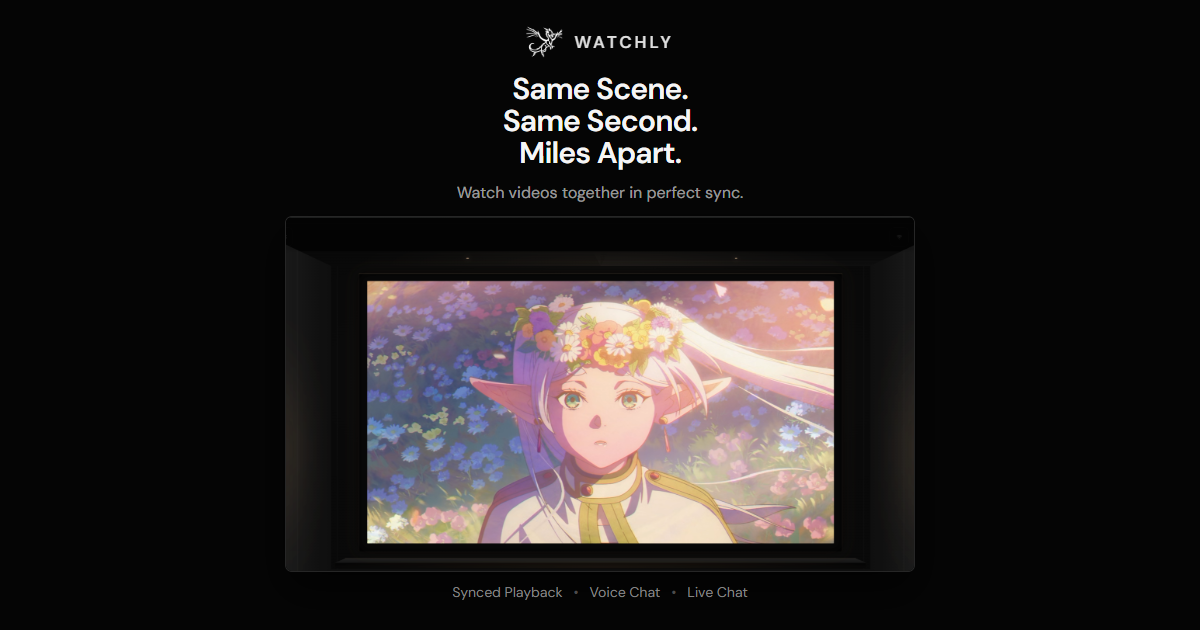
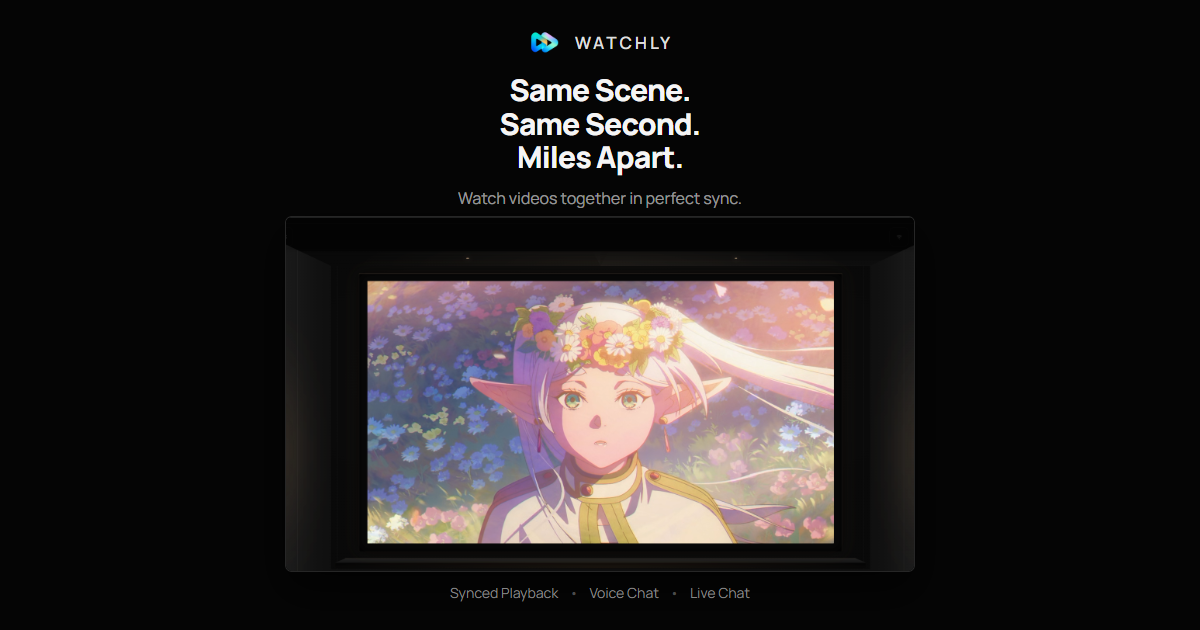
changed font to Manrope

diff --git a/frontend/src/components/cinema-hero.css b/frontend/src/components/cinema-hero.css
@@ -13,7 +13,7 @@
 
 .watchly-landing button,
 .watchly-landing input {
-  font: inherit;
+  font-family: inherit;
 }
 
 .watchly-landing button:focus-visible,
@@ -71,7 +71,7 @@
   align-items: center;
   gap: 10px;
   background: transparent;
-  font-weight: 750;
+  font-weight: 600;
   letter-spacing: -0.02em;
 }
 
@@ -99,7 +99,7 @@
   background: transparent;
   color: rgb(255 255 255 / 62%);
   font-size: 0.78rem;
-  font-weight: 650;
+  font-weight: 600;
   transition: color 180ms ease, background 180ms ease;
 }
 
@@ -122,7 +122,7 @@
   border-radius: 14px;
   color: var(--watchly-ink) !important;
   font-size: 0.8rem;
-  font-weight: 750;
+  font-weight: 600;
   box-shadow: 0 8px 28px rgb(0 0 0 / 20%);
   transition: background 180ms ease, transform 180ms ease;
 }
@@ -277,18 +277,17 @@
   margin: 0;
   color: rgb(255 255 255 / 64%);
   font-size: 0.68rem;
-  font-weight: 800;
+  font-weight: 400;
   letter-spacing: 0.18em;
 }
 
 .cinema-hero-copy h1 {
   max-width: 540px;
   margin: 13px 0 0;
-  font-family: 'Syne', sans-serif;
   font-size: clamp(2.35rem, 4.35vw, 4.9rem);
-  font-weight: 650;
-  line-height: 0.94;
-  letter-spacing: -0.055em;
+  font-weight: 800;
+  line-height: 1.08;
+  letter-spacing: -0.04em;
 }
 
 .cinema-hero-copy h1 span {
@@ -326,7 +325,7 @@
   border-radius: 14px;
   cursor: pointer;
   font-size: 0.83rem;
-  font-weight: 750;
+  font-weight: 600;
   transition: transform 180ms ease, background 180ms ease, border-color 180ms ease;
 }
 
@@ -510,11 +509,10 @@
 .story-panel h2 {
   margin: 18px 0 0;
   max-width: 670px;
-  font-family: 'Syne', sans-serif;
   font-size: clamp(2.15rem, 4.3vw, 4.75rem);
-  font-weight: 620;
-  line-height: 1;
-  letter-spacing: -0.055em;
+  font-weight: 650;
+  line-height: 1.12;
+  letter-spacing: -0.035em;
 }
 
 .story-panel-description {
@@ -647,12 +645,16 @@
 
 .story-panel-metric span {
   color: rgb(255 255 255 / 35%);
-  font: 700 0.68rem/1 'DM Sans', sans-serif;
+  font-size: 0.68rem;
+  font-weight: 400;
+  line-height: 1.4;
   letter-spacing: 0.15em;
 }
 
 .story-panel-metric strong {
-  font: 650 0.85rem/1.3 'DM Sans', sans-serif;
+  font-size: 0.85rem;
+  font-weight: 650;
+  line-height: 1.4;
 }
 
 .stage-indicator {
@@ -772,10 +774,10 @@
 
 .room-launcher h2 {
   margin: 13px 40px 0 0;
-  font-family: 'Syne', sans-serif;
   font-size: clamp(2rem, 6vw, 2.8rem);
-  line-height: 1;
-  letter-spacing: -0.045em;
+  font-weight: 650;
+  line-height: 1.2;
+  letter-spacing: -0.025em;
 }
 
 .room-launcher-copy {
@@ -813,7 +815,7 @@
   gap: 8px;
   color: rgb(255 255 255 / 52%);
   font-size: 0.68rem;
-  font-weight: 750;
+  font-weight: 600;
   letter-spacing: 0.06em;
   text-transform: uppercase;
 }
@@ -870,7 +872,7 @@
   border-radius: 14px;
   cursor: pointer;
   font-size: 0.84rem;
-  font-weight: 800;
+  font-weight: 600;
 }
 
 .room-launcher-submit:disabled {
@@ -1031,7 +1033,7 @@
   .cinema-hero-copy h1 {
     margin-top: 9px;
     font-size: clamp(2rem, 10vw, 2.75rem);
-    line-height: 0.96;
+    line-height: 1.08;
   }
 
   .cinema-hero-copy > p:not(.cinema-kicker) {

diff --git a/frontend/src/components/livekit-voice.css b/frontend/src/components/livekit-voice.css
@@ -1,15 +1,15 @@
 .livekit-voice { border: 1px solid var(--glass-border); border-radius: 24px; background: var(--glass-bg); color: var(--text); padding: 12px; backdrop-filter: blur(var(--blur)); }
-.livekit-voice button { font: inherit; cursor: pointer; }
+.livekit-voice button { font-family: inherit; cursor: pointer; }
 .livekit-voice button:disabled { opacity: .45; cursor: default; }
 .livekit-voice :focus-visible { outline: 2px solid var(--text); outline-offset: 3px; }
 .livekit-voice-title { display: flex; align-items: center; gap: 10px; width: 100%; min-height: 48px; background: none; border: 0; color: inherit; text-align: left; padding: 4px; }
 .livekit-voice-title > span:nth-child(2) { flex: 1; min-width: 0; }
-.livekit-voice-title strong { font-size: 14px; font-family: 'Syne', sans-serif; }
+.livekit-voice-title strong { font-size: 14px; font-weight: 650; }
 .livekit-voice-icon { display: inline-flex; align-items: center; justify-content: center; flex-shrink: 0; width: 40px; height: 40px; border-radius: 14px; background: var(--accent-soft); }
 .livekit-voice-status { display: block; color: var(--text-sub); font-size: 11px; margin-top: 4px; }
 .livekit-voice-count { display: inline-flex; align-items: center; gap: 4px; font-size: 11px; color: var(--text-sub); }
 .livekit-voice-actions { display: flex; gap: 8px; margin-top: 12px; }
-.livekit-voice-actions button, .livekit-voice-start-audio { flex: 1; display: inline-flex; align-items: center; justify-content: center; gap: 7px; min-height: 44px; padding: 10px; border: 1px solid var(--glass-border); border-radius: 14px; background: var(--accent-soft); color: var(--text); font-size: 12px; font-weight: 650; }
+.livekit-voice-actions button, .livekit-voice-start-audio { flex: 1; display: inline-flex; align-items: center; justify-content: center; gap: 7px; min-height: 44px; padding: 10px; border: 1px solid var(--glass-border); border-radius: 14px; background: var(--accent-soft); color: var(--text); font-size: 12px; font-weight: 600; }
 .livekit-voice-actions .livekit-voice-leave { color: #dc7777; border-color: rgb(220 119 119 / 25%); }
 .livekit-voice-start-audio { width: 100%; margin-top: 10px; }
 .livekit-voice-error { color: #dc7777; font-size: 12px; line-height: 1.6; margin: 12px 0 0; }

diff --git a/frontend/src/index.css b/frontend/src/index.css
@@ -7,6 +7,8 @@
 [data-rht-toaster].watchly-toaster > div { pointer-events: none; }
 
 :root {
+  --font-sans: 'Manrope Variable', system-ui, -apple-system, BlinkMacSystemFont, 'Segoe UI', 'Noto Sans', 'Nirmala UI', Arial, sans-serif, 'Apple Color Emoji', 'Segoe UI Emoji';
+  --lk-font-family: var(--font-sans);
   --watchly-carbon: #0a0b10;
   --watchly-midnight: #171226;
   --watchly-blue: #0975b6;
@@ -56,8 +58,9 @@
 
 @layer base {
   html {
-    font-family: 'DM Sans', system-ui, -apple-system, sans-serif;
-    font-optical-sizing: auto;
+    font-family: var(--font-sans);
+    font-weight: 400;
+    line-height: 1.5;
   }
 
   body {
@@ -67,7 +70,7 @@
     min-height: 100vh;
   }
 
-  h1, h2, h3, h4, .syne { font-family: 'Syne', sans-serif; }
+  button, input, textarea, select, code, kbd, samp, pre { font-family: inherit; }
   #root { position: relative; z-index: 3; }
   * { box-sizing: border-box; }
 
@@ -75,6 +78,42 @@
   ::-webkit-scrollbar-track { background: transparent; }
   ::-webkit-scrollbar-thumb { background: var(--glass-border); border-radius: 100px; }
   ::-webkit-scrollbar-thumb:hover { background: var(--accent-border); }
+}
+
+body h1,
+body h1[class] {
+  font-weight: 700;
+  line-height: 1.2;
+  letter-spacing: -0.025em;
+}
+
+body :is(h2, h3, h4, h5, h6),
+body :is(h2, h3, h4, h5, h6)[class] {
+  font-weight: 650;
+  line-height: 1.3;
+  letter-spacing: -0.015em;
+}
+
+body :is(button, [role="button"], input[type="submit"], input[type="button"],
+  .account-primary, .account-secondary, .account-text-action, nav a) {
+  font-weight: 600;
+  letter-spacing: -0.01em;
+  line-height: 1.4;
+}
+
+body nav :is(button, a) { font-weight: 600; }
+
+body [data-lk-theme] { --lk-font-family: var(--font-sans); }
+
+body :is(code, kbd, .tabular-nums) { font-variant-numeric: tabular-nums; }
+
+body :is(input:not([type="button"]):not([type="submit"]), textarea, select) {
+  font-weight: 400;
+  line-height: 1.5;
+}
+
+body :is(small, .account-muted, .person-name > span, .appearance-choice-description) {
+  font-weight: 400;
 }
 
 .watchly-action,

diff --git a/frontend/social-preview/watchly.html b/frontend/social-preview/watchly.html
@@ -4,20 +4,18 @@
   <meta charset="utf-8" />
   <meta name="viewport" content="width=1200, initial-scale=1" />
   <title>Watchly social preview</title>
-  <link rel="preconnect" href="https://fonts.googleapis.com" />
-  <link rel="preconnect" href="https://fonts.gstatic.com" crossorigin />
-  <link href="https://fonts.googleapis.com/css2?family=DM+Sans:wght@400;500;600&display=swap" rel="stylesheet" />
+  <link rel="stylesheet" href="../node_modules/@fontsource-variable/manrope/index.css" />
   <style>
     * { box-sizing: border-box; }
     html, body { width: 1200px; height: 630px; margin: 0; overflow: hidden; }
-    body { background: #050505; color: #f5f5f5; font-family: 'DM Sans', sans-serif; }
+    body { background: #050505; color: #f5f5f5; font-family: 'Manrope Variable', system-ui, -apple-system, 'Segoe UI', 'Noto Sans', sans-serif; }
     .card { position: relative; width: 1200px; height: 630px; isolation: isolate; }
     .brand { position: absolute; left: 50%; top: 24px; transform: translateX(-50%); display: flex; align-items: center; gap: 12px; }
     .logo { width: 36px; height: 36px; }
     .logo img { display: block; width: 100%; height: 100%; object-fit: contain; }
     .brand span { font-size: 17px; font-weight: 600; letter-spacing: 3px; color: #dedede; }
     .copy { position: absolute; left: 50%; top: 73px; width: 600px; transform: translateX(-50%); text-align: center; }
-    h1 { margin: 0; font-size: 30px; font-weight: 600; line-height: 1.07; letter-spacing: -0.8px; }
+    h1 { margin: 0; font-size: 30px; font-weight: 800; line-height: 1.12; letter-spacing: -0.8px; }
     h1 span { display: block; }
     .description { margin: 12px 0 0; color: rgb(255 255 255 / 60%); font-size: 16px; font-weight: 400; line-height: 1.5; white-space: nowrap; }
     .room { position: absolute; left: 285px; top: 216px; width: 630px; height: 356px; margin: 0; border: 1px solid #262626; border-radius: 7px; overflow: hidden; background: #030303; box-shadow: 0 18px 40px rgb(0 0 0 / 65%); }

diff --git a/frontend/src/components/account/account.css b/frontend/src/components/account/account.css
@@ -1,13 +1,13 @@
 .account-page { min-height: 100dvh; background: radial-gradient(ellipse at 50% 0%,var(--watchly-midnight),transparent 64%),var(--bg-base); color: var(--text,#f5f5f7); font-family: inherit; }
 :root.theme-glass-light .account-page:not(.my-watchly-page) { background: var(--bg-base); }
-.account-page button,.account-page input,.account-nav-actions button { font: inherit; }
+.account-page button,.account-page input,.account-nav-actions button { font-family: inherit; }
 .account-header { width: min(1160px,calc(100% - 40px)); margin: auto; min-height: 88px; display:flex; justify-content:space-between; align-items:center; gap:16px; border-bottom:1px solid rgb(255 255 255 / 7%); }
-.account-brand { display:inline-flex; align-items:center; gap:9px; font-size:20px; font-weight:750; color:inherit; text-decoration:none; }
+.account-brand { display:inline-flex; align-items:center; gap:9px; font-size:20px; font-weight:600; color:inherit; text-decoration:none; }
 .account-brand img { width:36px; height:36px; object-fit:contain; }
 .account-main { width:min(1040px,calc(100% - 40px)); margin:0 auto; padding:48px 0 80px; }
 .account-main h1 { font-size:clamp(26px,4vw,36px); line-height:1.2; font-weight:700; letter-spacing:-.035em; margin:12px 0; }
 .account-main h2,.account-dialog h2 { font-size:18px; font-weight:650; margin:0 0 20px; }
-.account-eyebrow { font-size:10px; font-weight:700; letter-spacing:.21em; color:var(--text-muted,#85858e); }
+.account-eyebrow { font-size:10px; font-weight:400; letter-spacing:.16em; color:var(--text-muted,#85858e); }
 .account-muted { color:var(--text-muted,#92929d); font-size:14px; line-height:1.65; margin:12px 0; }
 .account-muted.small { font-size:12px; }
 .account-primary,.account-secondary,.account-text-action { min-height:44px; display:inline-flex; align-items:center; justify-content:center; gap:7px; padding:10px 16px; border-radius:13px; font-size:13px; font-weight:600; cursor:pointer; text-decoration:none; white-space:nowrap; }

diff --git a/frontend/src/components/RoomLayout.jsx b/frontend/src/components/RoomLayout.jsx
@@ -129,7 +129,7 @@ const Header = ({ roomId, roomAppearance, supportsTheater, leaveRoom, navigate, 
                 <div className="flex min-w-0 items-center gap-3">
                     <button onClick={() => navigate('/')} className="room-brand flex shrink-0 items-center gap-2.5" title="Watchly home" aria-label="Watchly home">
                         <img src="/logo.png" alt="Watchly Logo" className="h-10 w-auto" />
-                        <span className="hidden text-sm font-bold tracking-tight text-white sm:block">Watchly</span>
+                        <span className="hidden text-sm font-semibold tracking-tight text-white sm:block">Watchly</span>
                     </button>
 
                     {roomAppearance === 'cinematic' ? (
@@ -163,8 +163,8 @@ const Header = ({ roomId, roomAppearance, supportsTheater, leaveRoom, navigate, 
                                 title={`Copy room code ${roomId}`}
                                 aria-label="Copy room code"
                             >
-                                <span className="hidden text-[10px] font-bold uppercase tracking-wider text-zinc-600 sm:inline">Room</span>
-                                <span className="truncate font-mono text-xs font-bold text-white">{roomId}</span>
+                                <span className="hidden text-[10px] font-semibold uppercase tracking-wider text-zinc-600 sm:inline">Room</span>
+                                <span className="truncate tabular-nums text-xs font-semibold text-white">{roomId}</span>
                                 <AnimatePresence mode="wait">
                                     {copied ? (
                                         <MotionSpan key="copied" initial={{ scale: 0 }} animate={{ scale: 1 }} exit={{ scale: 0 }}>

diff --git a/frontend/src/components/player/PlaylistControls.jsx b/frontend/src/components/player/PlaylistControls.jsx
@@ -11,7 +11,7 @@ export default function PlaylistControls({ ready }) {
     const button = 'flex min-h-10 items-center gap-1 rounded-xl border border-white/10 px-3 text-xs font-semibold text-zinc-200 hover:bg-white/5 disabled:opacity-40';
     return <div className="watch-playback-details playlist-controls flex shrink-0 flex-wrap items-center gap-2 rounded-2xl border border-white/10 bg-white/[0.03] p-3 text-xs" aria-label="YouTube playlist controls">
         <div className="min-w-0 flex-1 basis-40">
-            <div className="font-semibold text-zinc-300">YouTube Playlist {count > 0 && <span className="ml-2 font-mono text-zinc-500">{state.playlistIndex + 1} / {count}</span>}</div>
+            <div className="font-semibold text-zinc-300">YouTube Playlist {count > 0 && <span className="ml-2 tabular-nums text-zinc-500">{state.playlistIndex + 1} / {count}</span>}</div>
             <div className="mt-1 truncate text-zinc-400" title={title}>{title}</div>
             <div className="mt-1 text-[10px] text-zinc-500" role="status">{state.playlistStatus === 'finished' ? 'Playlist finished' : state.playlistStatus === 'error' ? 'Playlist unavailable' : ready ? `${localReadiness.readyCount}/${localReadiness.totalCount} ready` : 'Loading current item…'}</div>
         </div>

diff --git a/frontend/src/components/appearance-panel.css b/frontend/src/components/appearance-panel.css
@@ -22,7 +22,7 @@
 .appearance-panel-header p { margin: 4px 0 0; color: #71717a; font-size: 11px; }
 .appearance-panel-body { min-height: 0; padding: 0 20px 12px; overflow-y: auto; overscroll-behavior: contain; scrollbar-color: #333 transparent; }
 .appearance-section + .appearance-section { margin-top: 20px; }
-.appearance-section h3 { margin: 0 0 9px; font-family: inherit; font-size: 10px; font-weight: 600; letter-spacing: 0.1em; text-transform: uppercase; color: rgb(255 255 255 / 45%); }
+.appearance-section h3 { margin: 0 0 9px; font-family: inherit; font-size: 10px; font-weight: 650; letter-spacing: 0.1em; text-transform: uppercase; color: rgb(255 255 255 / 45%); }
 .appearance-choices { display: grid; grid-template-columns: repeat(2, minmax(0, 1fr)); gap: 8px; }
 .appearance-choice { position: relative; display: flex; flex-direction: column; justify-content: center; min-height: 64px; padding: 12px; padding-right: 25px; text-align: left; border: 1px solid rgb(255 255 255 / 8%); border-radius: 11px; background: rgb(255 255 255 / 2.5%); transition: background 160ms ease, border-color 160ms ease; }
 .appearance-choice:hover { background: rgb(255 255 255 / 5%); }

diff --git a/frontend/index.html b/frontend/index.html
@@ -27,10 +27,7 @@
     <meta name="twitter:image:alt" content="Watchly — Same Scene. Same Second. Miles Apart. A real Cinema Luxe watch room with synced playback, voice chat, and live chat." />
     <title>Watchly — Watch Together</title>
     <link rel="preload" href="/bg-video-poster.jpg" as="image" />
-    <!-- Syne (display/headings) + DM Sans (body/UI) -->
-    <link rel="preconnect" href="https://fonts.googleapis.com" />
-    <link rel="preconnect" href="https://fonts.gstatic.com" crossorigin />
-    <link href="https://fonts.googleapis.com/css2?family=Syne:wght@400;500;600;700;800&family=DM+Sans:ital,opsz,wght@0,9..40,300;0,9..40,400;0,9..40,500;0,9..40,600;1,9..40,300&display=swap" rel="stylesheet" />
+    <link rel="preload" href="/node_modules/@fontsource-variable/manrope/files/manrope-latin-wght-normal.woff2" as="font" type="font/woff2" crossorigin />
   </head>
   <body>
     <div id="root"></div>

diff --git a/frontend/src/components/UserQueueSidebar.jsx b/frontend/src/components/UserQueueSidebar.jsx
@@ -212,7 +212,7 @@ const UserQueueSidebar = ({ compact = false, variant = 'classic', className = ''
                                 transition={{ duration: 0.18 }}
                                 className="group/queue flex items-center gap-2 rounded-2xl border border-transparent px-2.5 py-2 transition hover:border-white/10 hover:bg-white/[0.04]"
                             >
-                                <span className="w-5 shrink-0 font-mono text-xs text-zinc-600">{idx + 1}</span>
+                                <span className="w-5 shrink-0 tabular-nums text-xs text-zinc-600">{idx + 1}</span>
                                 <PlayCircle size={14} className="shrink-0 text-zinc-500" />
                                 <span className="min-w-0 flex-1 truncate text-xs font-medium text-zinc-400" title={item.label}>{item.label}</span>
                                 {canManageQueue && (

diff --git a/frontend/src/components/VoiceRoomLegacy.jsx b/frontend/src/components/VoiceRoomLegacy.jsx
@@ -626,7 +626,7 @@ const VoiceRoom = ({ variant = 'classic', className = '' }) => {
 
                         <span className="min-w-0 flex-1">
                             <span className="flex items-center gap-2 min-w-0">
-                                <span className="syne text-sm font-bold truncate" style={{ color: 'var(--text)' }}>Voice Call</span>
+                                <span className="text-sm font-[650] truncate" style={{ color: 'var(--text)' }}>Voice Call</span>
                                 <span className="shrink-0 rounded-full px-2 py-0.5 text-[10px] font-bold" style={callStatusStyle}>{callStatus}</span>
                                 {FORCE_RELAY && <span className="shrink-0 rounded-full border border-violet-500/25 bg-violet-500/10 px-2 py-0.5 text-[9px] font-bold text-violet-300">Relay test</span>}
                             </span>

diff --git a/frontend/vite.config.js b/frontend/vite.config.js
@@ -28,7 +28,7 @@ export default defineConfig({
     react(),
     VitePWA({
       registerType: 'prompt',
-      workbox: { skipWaiting: false, clientsClaim: false, globIgnores: ['**/bg-video*.mp4', '**/bg-video*.webm'], navigateFallbackDenylist: [/^\/api\//, /^\/ws\//, /^\/auth\/callback(?:\/|\?|$)/, deploymentRetryNavigation] },
+      workbox: { skipWaiting: false, clientsClaim: false, globPatterns: ['**/*.{js,wasm,css,html,woff2}'], globIgnores: ['**/bg-video*.mp4', '**/bg-video*.webm'], navigateFallbackDenylist: [/^\/api\//, /^\/ws\//, /^\/auth\/callback(?:\/|\?|$)/, deploymentRetryNavigation] },
       includeAssets: ['logo.png', 'logo-512.png', 'bg-video-poster.jpg', 'assets/sofa-couple-mobile.webp'],
       manifest: {
         name: 'Watchly',
